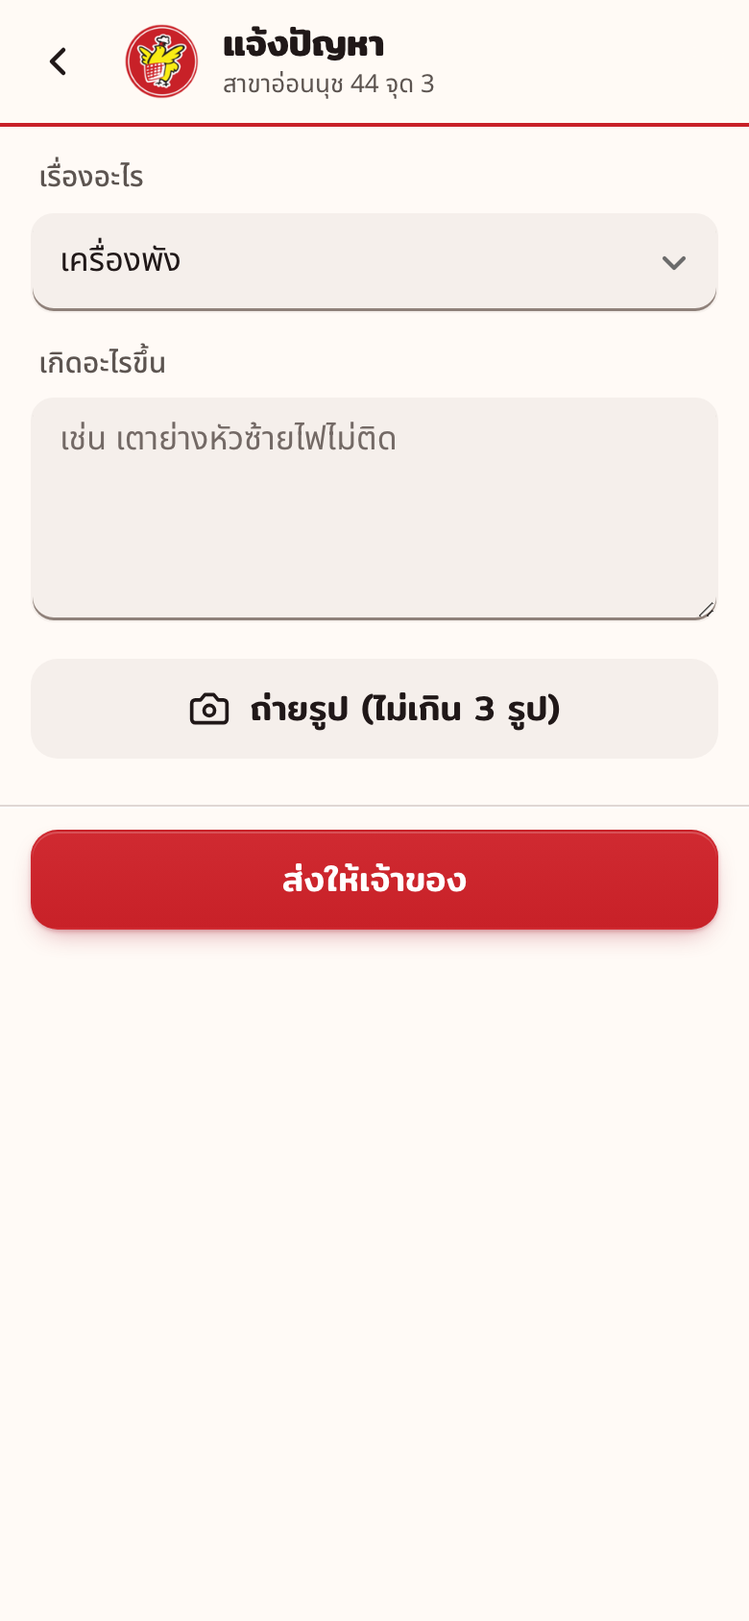
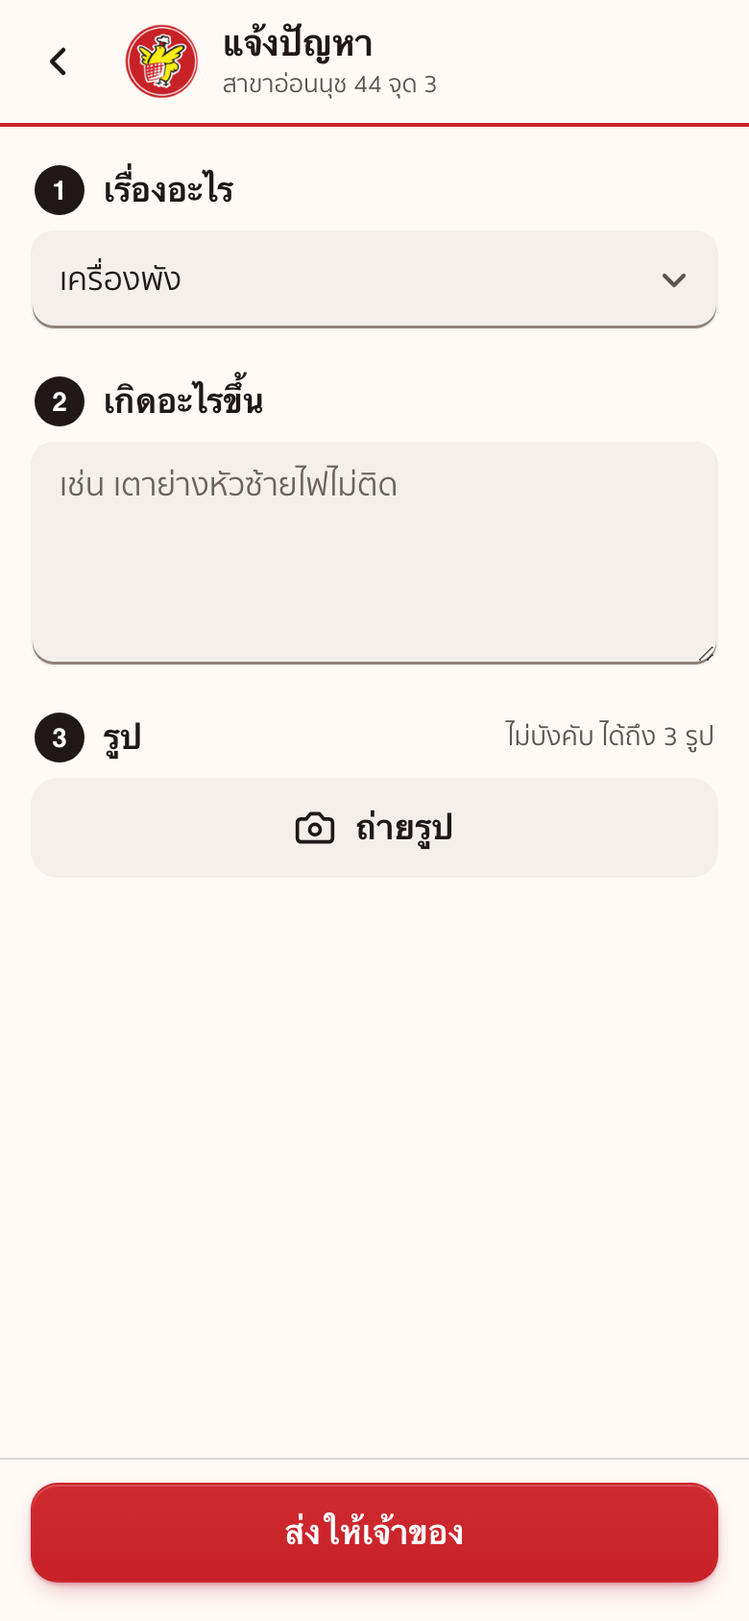
close check + waste question + manual (4d152b2)

diff --git a/manual.html b/manual.html
@@ -104,13 +104,13 @@
       <li><span class="w">ระหว่างวัน</span><span class="t">ชั่ง ถ่ายรูป แล้วทิ้ง</span><span class="b">ทิ้งของเสีย</span></li>
       <li class="hot"><span class="w">ก่อน 20:30 น.</span><span class="t">นับของเหลือ ของใช้ เงินสด ถ่ายรูป</span><span class="b">ปิดร้าน</span></li>
     </ul>
-    <p class="hint">ต้องรับของก่อน ถึงจะปิดร้านได้<br>วันที่ของไม่มา ก็ต้องกดรับของ แล้วเลือก "วันนี้ไม่มีของมา"</p>
+    <p class="hint">ต้องรับของก่อน ถึงจะปิดร้านได้<br>วันที่ของไม่มา ก็ต้องกดรับของ แล้วเลือก "วันนี้ไม่มีของมา"<br>ร้านหยุดทุกวันจันทร์ หน้าแรกขึ้น "วันนี้ร้านหยุด"<br>วันจันทร์ไม่ต้องเปิดร้านหรือปิดร้าน และแอปไม่เตือน</p>
     <div class="duo">
       <div class="warn"><b>20:30 น.</b>ยังไม่ปิดร้าน แอปเตือนเข้ากลุ่มพนักงาน</div>
       <div class="bad"><b>21:00 น.</b>ยังไม่ปิดร้าน ไม่มีใบสั่ง CPF ของอาจขาด</div>
     </div>
     <div class="good"><b>ไม่ต้องสั่งของเอง</b>แอปคิดใบสั่งจากของเหลือที่เรานับ<br>นับให้ตรง ของมาพอดี</div>
-    <figure class="shot"><img src="img/manual/index.png" alt="หน้าแรกของแอป" loading="lazy"><i style="left:50%;top:26%">1</i><i style="left:5%;top:36%">2</i><i style="left:5%;top:45%">3</i></figure>
+    <figure class="shot"><img src="img/manual/index.png" alt="หน้าแรกของแอป" loading="lazy"><i style="left:62%;top:27%">1</i><i style="left:30%;top:35.7%">2</i><i style="left:5%;top:57.2%">3</i></figure>
     <ol class="steps">
       <li>กล่องใหญ่บอกงานถัดไป แตะแล้วไปหน้านั้นเลย</li>
       <li>กล่องเล็กบอกว่าวันนี้ทำอะไรไปแล้ว</li>
@@ -119,10 +119,10 @@
     <h3>ปุ่ม "ห่อข้าวเหนียวเสร็จ"</h3>
     <ol class="steps">
       <li>ห่อเสร็จแต่ละรอบ กดปุ่ม "ห่อข้าวเหนียวเสร็จ" ที่หน้าแรก</li>
-      <li>ใส่จำนวนห่อของรอบนั้น แล้วกด "บันทึก"</li>
+      <li>ใส่จำนวนห่อของรอบนั้น แล้วกด "บันทึกจำนวนห่อ"</li>
       <li>ปุ่มบอกยอดรวม "วันนี้ห่อแล้ว" ทั้งวันให้</li>
     </ol>
-    <p class="hint">ปุ่มนี้ขึ้นตอนร้านเปิดอยู่</p>
+    <p class="hint">ปุ่มนี้ขึ้นตอนร้านเปิดอยู่<br>ใส่ผิด กด "ยกเลิกรายการล่าสุด" ภายใน 10 นาที<br>ยกเลิกได้เฉพาะรายการของเราเอง ที่บันทึกล่าสุด<br>เลย 10 นาทีแล้ว แจ้งปัญหา เลือก "กรอกผิด ขอแก้"</p>
   </div>
 </details>
 
@@ -134,27 +134,28 @@
       <li>กดปุ่มแดง "ถ่ายรูปหน้าร้าน" ต้องถ่ายตอนนั้น เลือกจากอัลบั้มไม่ได้ ไม่มีรูปเปิดร้านไม่ได้</li>
       <li>ได้รูปแล้ว ปุ่มแดงเปลี่ยนเป็น "เปิดร้าน" กดแล้วเห็นไก่มาสคอตกับติ๊กเขียว คือเสร็จ</li>
     </ol>
-    <p class="hint">เวลาที่กดเปิดร้าน คือเวลาเข้างานของเรา<br>รูปไม่ชัด กดลบแล้วถ่ายใหม่ได้<br>เมื่อวานลืมปิดร้าน หน้านี้จะให้ปิดร้านเมื่อวานก่อน แล้วค่อยเปิดร้านวันนี้</p>
+    <p class="hint">เวลาที่กดเปิดร้าน คือเวลาเข้างานของเรา<br>รูปไม่ชัด กดลบแล้วถ่ายใหม่ได้<br>ถ้าหน้านี้ขึ้น "ยังไม่ได้ปิดร้านวันก่อน"<br>กด "ปิดร้านที่ค้างก่อน" ปิดให้เสร็จ แล้วค่อยเปิดร้านวันนี้</p>
   </div>
 </details>
 
 <details class="sec">
   <summary><span class="n">3</span><h2>รับของ</h2><span class="ux-go" aria-hidden="true">›</span></summary>
   <div class="mn-in">
-    <figure class="shot"><img src="img/manual/receive.png" alt="หน้ารับของ" loading="lazy"><i style="left:8%;top:16.4%">1</i><i style="left:8%;top:26%">2</i><i style="left:8%;top:36.3%">3</i></figure>
+    <figure class="shot"><img src="img/manual/receive.png" alt="หน้ารับของ" loading="lazy"><i style="left:13%;top:22.7%">1</i><i style="left:13%;top:35%">2</i></figure>
     <div class="pick">
       <div><b>1 ของมาครบ</b>กด "ของมาครบตามใบสั่ง"<br>กด "ถ่ายใบส่งของ"<br>กด "บันทึก ของมาครบ"</div>
-      <div><b>2 ของมาไม่ครบ</b>กด "มีของขาด / ไม่ตรง"<br>แก้จำนวนแถวที่มาน้อย แถวนั้นขึ้น "ขาด N"<br>ถ่ายใบส่งของ แล้วกดบันทึก</div>
+      <div><b>2 ของมาไม่ครบ</b>กด "มีของขาด / ไม่ตรง"<br>แก้จำนวนแถวที่ไม่ตรง แถวนั้นขึ้น "ขาด N" หรือ "เกิน N"<br>ถ่ายใบส่งของ แล้วกดบันทึก</div>
       <div><b>3 วันนี้ไม่มีของมา</b>ถามเซลล์ในกลุ่มสั่งของก่อน<br>กด "วันนี้ไม่มีของมา"<br>ติ๊ก "ถามเซลล์ในกลุ่มสั่งของแล้ว" แล้วกดบันทึก</div>
+      <div><b>4 มีของที่ไม่อยู่ในใบสั่ง</b>กด "+ มีของอื่นมาด้วย"<br>เลือกสินค้า ใส่จำนวนที่ได้มา กด "เพิ่มของที่มา"<br>แถวนั้นขึ้น "นอกใบสั่ง" แล้วถ่ายใบส่งของ กดบันทึก</div>
     </div>
-    <p class="hint">วันที่มีของมา ต้องถ่ายใบส่งของทุกครั้ง ไม่ถ่ายบันทึกไม่ได้</p>
+    <p class="hint">ปุ่ม "วันนี้ไม่มีของมา" กับ "+ มีของอื่นมาด้วย" อยู่ล่างสุดของหน้า เลื่อนลงไปหา<br>วันที่มีของมา ต้องถ่ายใบส่งของทุกครั้ง ไม่ถ่ายบันทึกไม่ได้<br>ถ่ายได้ถึง 3 รูป<br>รับของแล้ว แก้ตัวเลขได้จนกว่าจะปิดร้าน</p>
   </div>
 </details>
 
 <details class="sec">
   <summary><span class="n">4</span><h2>ปิดร้าน 4 ขั้น</h2><span class="ux-go" aria-hidden="true">›</span></summary>
   <div class="mn-in">
-    <figure class="shot"><img src="img/manual/close.png" alt="หน้าปิดร้าน ขั้นนับของเหลือ" loading="lazy"><i style="left:50%;top:13%">1</i><i style="left:56%;top:30%">2</i><i style="left:9%;top:93.6%">3</i></figure>
+    <figure class="shot"><img src="img/manual/close.png" alt="หน้าปิดร้าน ขั้นนับของเหลือ" loading="lazy"><i style="left:15.5%;top:16.4%">1</i><i style="left:51.5%;top:31.6%">2</i><i style="left:9%;top:93.6%">3</i></figure>
     <ol class="steps">
       <li>แถบบนบอกว่าอยู่ขั้นไหน จาก 4 ขั้น</li>
       <li>ใส่จำนวนที่เหลือจริง แยกสดกับสุก ช่อง "เสีย" แตะไม่ได้ แอปใส่ยอดจากหน้าทิ้งของเสียให้</li>
@@ -162,26 +163,41 @@
     </ol>
     <h3>4 ขั้น</h3>
     <ol class="steps">
-      <li><span><b>นับของเหลือ</b> ทุกอย่างในตู้</span></li>
-      <li><span><b>ของใช้ในร้าน</b> ครบดีกด "ครบทุกอย่าง"<br>ใกล้หมดแตะ 1 ครั้ง หมดแตะ 2 ครั้ง</span></li>
-      <li><span><b>นับเงินสด</b> ในลิ้นชัก แล้วใส่ตัวเลข</span></li>
-      <li><span><b>ถ่ายรูปและส่ง</b> รูปตู้ และรูปหน้าจอ POS ต้องมีทั้ง 2 รูป แล้วกดปิดร้าน</span></li>
+      <li><span><b>นับของเหลือ</b> ทุกอย่างในตู้<br>วันที่ยังไม่ได้ลงของเสีย แอปถามก่อนนับ</span></li>
+      <li><span><b>ของใช้ในร้าน</b> ไม่ต้องนับจำนวน แค่แตะบอก<br>ยังพอทุกอย่าง กด "ของใช้ครบทุกอย่าง"<br>มีของใกล้หมด กด "มีของใกล้หมด / หมด" แล้วแตะชื่อของ<br>แตะ 1 ครั้ง = ใกล้หมด<br>แตะ 2 ครั้ง = หมด<br>แตะ 3 ครั้ง = กลับเป็นมี</span></li>
+      <li><span><b>นับเงินสด</b> ใส่ "ควรมี" ตามจอ POS<br>แล้วใส่ "นับได้" ตามเงินในลิ้นชัก</span></li>
+      <li><span><b>ถ่ายรูปและส่ง</b> "รูปตู้และถาด" กับ "รูปจอ POS"<br>ต้องมีทั้ง 2 รูป รูปบอกเวลาที่ปิดร้าน<br>แล้วกด "ปิดร้าน"</span></li>
     </ol>
     <h3>ของที่นับเป็นถุง</h3>
     <ol class="steps">
-      <li>แถวที่ช่อง "สด" ขึ้นคำว่า "แตะ" ให้แตะช่องนั้น</li>
-      <li>ใส่ "ถุงเต็ม" กี่ถุง และ "นอกถุง (เศษ)" กี่ชิ้น</li>
+      <li>แถวที่ช่อง "เหลือสด" ขึ้นคำว่า "แตะ" ให้แตะช่องนั้น</li>
+      <li>ใส่ "ถุงเต็ม" กี่ถุง และ "นอกถุง (เศษ)" กี่ชิ้น<br>เป๊ปซี่และน้ำดื่มนับเป็นแพ็ค ช่องจะขึ้น "แพ็คเต็ม" กับ "นอกแพ็ค (เศษ)"</li>
       <li>แอปบวกให้เอง ดูยอดรวมแล้วกด "ตกลง"</li>
     </ol>
-    <div class="bad-note"><b>ของเสีย บันทึกก่อนปิดร้าน</b>ทิ้งเมื่อไหร่ บันทึกที่หน้า "ทิ้งของเสีย" ตอนนั้นเลย พร้อมรูปตาชั่ง<br>ช่อง "เสีย" ตอนปิดร้านแตะไม่ได้ แอปใส่ยอดที่บันทึกไว้ให้เอง<br>เก็บร้านแล้วมีของต้องทิ้ง บันทึกให้เสร็จก่อนกดปิดร้าน</div>
-    <p class="hint">ปิดแอปกลางทางได้ ตัวเลขยังอยู่<br>กดปิดร้านแล้ว แก้ตัวเลขเองไม่ได้<br>มีอะไรอยากบอกเจ้าของ เขียนช่อง "ฝากบอกเจ้าของ"</p>
+    <h3>ถาม "วันนี้มีของเสียไหม"</h3>
+    <ol class="steps">
+      <li>เปิดหน้าปิดร้านวันที่ยังไม่มีของเสีย แอปถามก่อนนับ</li>
+      <li>ไม่มีของเสีย กด "ไม่มี"</li>
+      <li>มีของเสีย กด "มี ไปลงของเสีย" ลงให้เสร็จ แล้วกลับมานับ</li>
+    </ol>
+    <p class="hint">ตอบแล้ว แอปไม่ถามซ้ำวันนั้น<br>ปิดร้านย้อนหลัง ของเสียวันนั้นลงในแอปไม่ได้แล้ว<br>ถ้ามี เขียนในช่อง "ฝากบอกเจ้าของ"</p>
+    <h3>นับน้อยกว่าปกติ</h3>
+    <figure class="shot"><img src="img/manual/close-low.png" alt="แผ่นเตือนตรวจอีกรอบ นับน้อยกว่าปกติ" loading="lazy"><i style="left:91%;top:69%">1</i><i style="left:9%;top:88.1%">2</i><i style="left:9%;top:95.2%">3</i></figure>
+    <ol class="steps">
+      <li>กดปุ่มแดงไปขั้นถัดไป ถ้านับน้อยกว่าที่ควรเหลือมาก แผ่นแดง "ตรวจอีกรอบ นับน้อยกว่าปกติ" ขึ้น พร้อมรายการของ</li>
+      <li>นับผิด กด "กลับไปนับใหม่" แถวนั้นขึ้นสีแดง</li>
+      <li>นับถูกแล้ว กด "นับถูกแล้ว บันทึก"</li>
+    </ol>
+    <p class="hint">นับขาด ใบสั่งจะสั่งเกิน ของจะกองในตู้<br>ของที่กด "นับถูกแล้ว บันทึก" ไปขึ้นในการ์ดปิดร้านที่เจ้าของเห็น<br>ตัวเลขชุดเดิมไม่ถามซ้ำ</p>
+    <div class="bad-note"><b>ของเสีย บันทึกก่อนปิดร้าน</b>ทิ้งเมื่อไหร่ บันทึกที่หน้า "ทิ้งของเสีย" ตอนนั้นเลย พร้อมรูปตาชั่ง<br>ช่อง "เสีย" ตอนปิดร้านแตะไม่ได้ แอปใส่ยอดที่บันทึกไว้ให้เอง<br>แตะช่องนั้น มีปุ่ม "ไปบันทึกของเสีย" ตัวเลขที่นับไว้ไม่หาย<br>เก็บร้านแล้วมีของต้องทิ้ง บันทึกให้เสร็จก่อนกดปิดร้าน</div>
+    <p class="hint">ช่องที่ขึ้น 0 แตะแล้วพิมพ์ทับได้เลย ไม่ต้องลบ 0<br>ปิดแอปกลางทางได้ ตัวเลขยังอยู่ แต่รูปต้องถ่ายใหม่<br>กดปิดร้านแล้ว แก้ตัวเลขเองไม่ได้<br>ปิดร้านหลังเที่ยงคืน ยังนับเป็นวันเดิม จนถึงตี 5<br>มีอะไรอยากบอกเจ้าของ เขียนช่อง "ฝากบอกเจ้าของ"</p>
   </div>
 </details>
 
 <details class="sec">
   <summary><span class="n">5</span><h2>แจ้งปัญหา</h2><span class="ux-go" aria-hidden="true">›</span></summary>
   <div class="mn-in">
-    <figure class="shot"><img src="img/manual/issue.png" alt="หน้าแจ้งปัญหา" loading="lazy"><i style="left:3.5%;top:16%">1</i><i style="left:3.5%;top:31%">2</i><i style="left:9%;top:43.7%">3</i><i style="left:9%;top:54%">4</i></figure>
+    <figure class="shot"><img src="img/manual/issue.png" alt="หน้าแจ้งปัญหา" loading="lazy"><i style="left:7.9%;top:11.7%">1</i><i style="left:7.9%;top:24.8%">2</i><i style="left:7.9%;top:45.5%">3</i><i style="left:9%;top:89%">4</i></figure>
     <ol class="steps">
       <li>เลือกเรื่อง: เครื่องพัง, ลูกค้าร้องเรียน, ของ CPF มาผิด, กรอกผิด ขอแก้, เรื่องอื่น</li>
       <li>เขียนสั้น ๆ ว่าเกิดอะไร</li>
@@ -195,29 +211,30 @@
 <details class="sec">
   <summary><span class="n">6</span><h2>ทิ้งของเสีย</h2><span class="ux-go" aria-hidden="true">›</span></summary>
   <div class="mn-in">
-    <figure class="shot"><img src="img/manual/waste.png" alt="หน้าทิ้งของเสีย" loading="lazy"><i style="left:3.5%;top:24.2%">1</i><i style="left:9%;top:43%">2</i><i style="left:3.5%;top:54.5%">3</i><i style="left:9%;top:62.4%">4</i><i style="left:9%;top:72.9%">5</i></figure>
+    <figure class="shot"><img src="img/manual/waste.png" alt="หน้าทิ้งของเสีย" loading="lazy"><i style="left:7.9%;top:24.4%">1</i><i style="left:7.9%;top:37.4%">2</i><i style="left:7.9%;top:50.5%">3</i><i style="left:7.9%;top:70.6%">4</i><i style="left:9%;top:89%">5</i></figure>
     <ol class="steps">
-      <li>เลือกสินค้า ใส่จำนวน</li>
-      <li>วางบนตาชั่ง กด "ถ่ายรูปบนตาชั่ง" ให้เห็นน้ำหนัก</li>
-      <li>ใส่น้ำหนักเป็นกรัม เช่น ครึ่งกิโล ใส่ 500</li>
+      <li>เลือกสินค้า</li>
+      <li>ใส่จำนวน</li>
+      <li>วางบนตาชั่ง กด "ถ่ายรูปบนตาชั่ง" ให้เห็นน้ำหนัก<br>แล้วใส่น้ำหนักเป็นกรัม เช่น ครึ่งกิโล ใส่ 500</li>
       <li>ทิ้งลงถัง กด "ถ่ายรูปตอนทิ้งลงถัง"</li>
       <li>กด "บันทึกของเสีย"</li>
+      <li>แผ่น "ตรวจก่อนบันทึก" ขึ้น ถูกแล้วกด "บันทึกของเสีย" ผิดกด "กลับไปแก้"</li>
     </ol>
-    <p class="hint">ทิ้งเมื่อไหร่ บันทึกตอนนั้นเลย<br>ตอนปิดร้าน ช่อง "เสีย" แตะไม่ได้ แอปใส่ยอดจากหน้านี้ให้เอง<br>ปิดร้านแล้ว บันทึกของเสียของวันนั้นไม่ได้<br>เก็บร้านแล้วมีของต้องทิ้ง ให้บันทึกก่อนกดปิดร้าน</p>
+    <p class="hint">ทิ้งเมื่อไหร่ บันทึกตอนนั้นเลย<br>ต้องมีรูปตาชั่ง น้ำหนักอย่างน้อย 10 กรัม และรูปตอนทิ้งลงถัง<br>ทิ้งได้ไม่เกินจำนวนที่มีในร้านวันนี้<br>บันทึกแล้วแก้เองไม่ได้ ผิดให้บอกเจ้าของ<br>ดูของที่ทิ้งไปแล้ว ที่แท็บ "ทิ้งแล้ววันนี้"<br>ตอนปิดร้าน ช่อง "เสีย" แตะไม่ได้ แอปใส่ยอดจากหน้านี้ให้เอง<br>ปิดร้านแล้ว บันทึกของเสียของวันนั้นไม่ได้<br>เก็บร้านแล้วมีของต้องทิ้ง ให้บันทึกก่อนกดปิดร้าน</p>
   </div>
 </details>
 
 <details class="sec">
   <summary><span class="n">7</span><h2>ขอหยุด/ลา</h2><span class="ux-go" aria-hidden="true">›</span></summary>
   <div class="mn-in">
-    <figure class="shot"><img src="img/manual/holiday.png" alt="หน้าขอหยุดหรือลา" loading="lazy"><i style="left:3.5%;top:27.8%">1</i><i style="left:3.5%;top:39%">2</i><i style="left:9%;top:70.4%">3</i></figure>
+    <figure class="shot"><img src="img/manual/holiday.png" alt="หน้าขอหยุดหรือลา" loading="lazy"><i style="left:92%;top:28%">1</i><i style="left:92%;top:39.6%">2</i><i style="left:9%;top:73.3%">3</i></figure>
     <ol class="steps">
       <li>เลือกว่าขออะไร</li>
       <li>เลือกวัน</li>
       <li>กด "ส่งคำขอหยุด/ลา"</li>
     </ol>
     <div class="pick">
-      <div><b>หยุดประจำสัปดาห์</b>1 วันต่อสัปดาห์ ผ่านทันที ไม่ต้องรอ</div>
+      <div><b>หยุดประจำสัปดาห์</b>1 วันต่อสัปดาห์ ผ่านทันที ไม่ต้องรอ<br>วันที่มีของ CPF เข้า ต้องรอเจ้าของอนุมัติ</div>
       <div><b>ลาป่วย ลากิจ หยุดพิเศษ</b>รอเจ้าของกดอนุมัติในกลุ่มพนักงาน<br>ลาป่วยเลือกวันนี้ได้ อย่างอื่นขอล่วงหน้า 1 วัน</div>
     </div>
     <p class="hint">กดยกเลิกคำขอเองได้<br>กดผิด มีปุ่ม "เลิกทำ" ให้กดภายใน 5 วินาที</p>
@@ -250,13 +267,15 @@
       <div><b>เน็ตล่ม เปิดแอปไม่ได้</b><span>เขียนลงใบกระดาษสำรองก่อน เน็ตกลับมาค่อยกรอกในแอป แล้วบอกในกลุ่มพนักงาน</span></div>
       <div><b>กล้องไม่ขึ้น</b><span>ปิดแอป LINE แล้วเปิดใหม่ ถ้ายังไม่ได้ ให้ LINE ใช้กล้องในตั้งค่ามือถือ</span></div>
       <div><b>ส่งรูปไม่ขึ้น</b><span>ลองถ่ายใหม่ ถ้ายังไม่ได้ ย้ายไปที่สัญญาณดีกว่า</span></div>
-      <div><b>เปิดร้านแล้วแอปให้ปิดร้านเมื่อวานก่อน</b><span>เมื่อวานลืมปิดร้าน ทำตามหน้าจอ ปิดร้านเมื่อวานให้เสร็จ แล้วค่อยเปิดร้านวันนี้</span></div>
+      <div><b>ขึ้นว่า "ยังไม่ได้ปิดร้านวันก่อน"</b><span>วันก่อนลืมปิดร้าน อาจเป็น 2 วันก่อนก็ได้ กด "ปิดร้านที่ค้างก่อน"<br>ปิดร้านวันนั้นให้เสร็จ แล้วค่อยเปิดร้านวันนี้<br>ถ้าขึ้นว่าของวันนั้นยังไม่ได้กดรับ บอกเจ้าของก่อน</span></div>
       <div><b>ลืมปิดร้าน เลย 20:30 น.</b><span>ปิดร้านทันที ก่อน 21:00 น. ยังทันใบสั่ง CPF</span></div>
-      <div><b>เลย 21:00 น. แล้ว</b><span>ยังต้องปิดร้าน แล้วบอกในกลุ่มพนักงาน เจ้าของจะจัดการใบสั่งเอง</span></div>
+      <div><b>เลย 21:00 น. แล้ว</b><span>ยังต้องปิดร้าน แล้วบอกในกลุ่มพนักงาน เจ้าของจะจัดการใบสั่งเอง<br>ปิดหลังเที่ยงคืนก็ได้ ยังนับเป็นวันเดิม จนถึงตี 5</span></div>
       <div><b>กรอกผิดหลังปิดร้าน</b><span>แจ้งปัญหา เลือก "กรอกผิด ขอแก้" บอกว่าผิดตัวไหน ที่ถูกเท่าไหร่</span></div>
       <div><b>ขึ้นว่า "ยังไม่มีสิทธิ์ใช้แอป"</b><span>เช็กว่ายังอยู่ในกลุ่มพนักงานไหม ถ้าหลุด บอกเจ้าของดึงกลับ แล้วกด "ฉันเป็นพนักงาน"</span></div>
       <div><b>ของไม่มาตามเวลา</b><span>ถามเซลล์ในกลุ่มสั่งของ ไม่มาจริง กดรับของ "วันนี้ไม่มีของมา"</span></div>
-      <div><b>ของ CPF มาผิดตัว</b><span>รับของตามที่มาจริง แล้วแจ้งปัญหา เลือก "ของ CPF มาผิด" ถ่ายรูป</span></div>
+      <div><b>ของ CPF มาผิดตัว</b><span>รับของตามที่มาจริง ของที่ไม่อยู่ในใบสั่ง กด "+ มีของอื่นมาด้วย"<br>แล้วแจ้งปัญหา เลือก "ของ CPF มาผิด" ถ่ายรูป</span></div>
+      <div><b>ขึ้นว่า "นับใหม่อีกครั้ง"</b><span>เลขที่ใส่ รวมสด สุก เสีย มากกว่าของที่มีวันนี้ (ยกมา กับ รับเข้า)<br>ใส่เลขติดลบก็ไม่ได้<br>นับใหม่อีกครั้ง ถ้าของมีจริง บอกเจ้าของให้แก้ยอดรับเข้า<br>ข้าวเหนียวห่อ ห่อเพิ่ม กด "ห่อข้าวเหนียวเสร็จ" ก่อน</span></div>
+      <div><b>ขึ้นว่า "เปิดไม่ขึ้น"</b><span>กด "ลองอีกครั้ง" ถ้าไม่มีปุ่ม ให้ปิดหน้าแล้วเข้าใหม่<br>ยังไม่ได้ ย้ายไปที่สัญญาณดีกว่า ถ้ายังไม่ได้ บอกในกลุ่มพนักงาน</span></div>
       <div><b>เมนูด้านล่างแชตไม่ขึ้น</b><span>ปิดแอป LINE แล้วเปิดใหม่ 1 ครั้ง</span></div>
     </div>
   </div>

diff --git a/close.html b/close.html
@@ -35,6 +35,13 @@
   <dialog id="wasteGo" class="bsheet" aria-labelledby="wasteGoT"><div class="body"><div class="grab"></div><div class="hd"><b id="wasteGoT">ช่องนี้กรอกเองไม่ได้</b><button type="button" class="x" aria-label="ปิด">✕</button></div>
   <p class="bag-hint">ของเสียต้องชั่งและถ่ายรูปก่อนบันทึก<br>บันทึกแล้วยอดจะแสดงที่ช่องนี้<br>ยอดที่นับไว้ไม่หาย</p>
   <a class="btn primary" href="waste.html">ไปบันทึกของเสีย</a></div></dialog>
+  <dialog id="wasteQ" class="bsheet" aria-labelledby="wasteQT"><div class="body"><div class="grab"></div><div class="hd"><b id="wasteQT">วันนี้มีของเสียไหม</b></div>
+  <p class="bag-hint">ลงของเสียก่อน แล้วค่อยนับของเหลือ</p></div>
+  <div class="foot ux-2b"><button type="button" id="wqNo" class="btn">ไม่มี</button><a id="wqYes" class="btn primary" href="waste.html">มี ไปลงของเสีย</a></div></dialog>
+  <dialog id="lowS" class="bsheet bad" aria-labelledby="lowT"><div class="body"><div class="grab"></div><div class="hd"><b id="lowT">ตรวจอีกรอบ นับน้อยกว่าปกติ</b><button type="button" class="x" aria-label="ปิด">✕</button></div>
+  <ul id="lowL" class="low-l"></ul>
+  <p class="bag-hint">ถ้านับขาด ใบสั่งจะสั่งเกิน ของจะกองในตู้</p></div>
+  <div class="foot"><button type="button" id="lowBack" class="btn primary">กลับไปนับใหม่</button><button type="button" id="lowKeep" class="btn" style="margin-top:8px">นับถูกแล้ว บันทึก</button></div></dialog>
   <section id="s2" class="ux-step" hidden>
   <div class="ux-pick" role="radiogroup" aria-label="ของใช้ในร้าน">
     <button type="button" id="consAll" class="ux-opt" role="radio" aria-checked="false"><b>ของใช้ครบทุกอย่าง</b><small>ถุง ฟอยล์ น้ำจิ้ม ยังพอ</small></button>
@@ -58,13 +65,6 @@
     <div class="cl-shot"><label class="btn cl-frame" data-again="แตะถ่ายเพิ่ม"><svg class="cl-ico" viewBox="0 0 24 24" fill="none" stroke="currentColor" stroke-width="1.6" stroke-linecap="round" stroke-linejoin="round" aria-hidden="true"><path d="M5 6a4 4 0 0 1 4-4h6a4 4 0 0 1 4 4v14a2 2 0 0 1-2 2H7a2 2 0 0 1-2-2V6Z"/><path d="M5 10h14"/><path d="M15 7v6"/></svg><b>รูปตู้และถาด</b><small><svg viewBox="0 0 24 24" fill="none" stroke="currentColor" stroke-width="2" stroke-linecap="round" stroke-linejoin="round" aria-hidden="true"><path d="M14.5 4h-5L7 7H4a2 2 0 0 0-2 2v9a2 2 0 0 0 2 2h16a2 2 0 0 0 2-2V9a2 2 0 0 0-2-2h-3l-2.5-3z"/><circle cx="12" cy="13" r="3"/></svg>แตะเพื่อถ่าย</small><input id="phFridge" type="file" accept="image/*" capture="environment" hidden></label><p id="phStatus" class="muted"></p></div>
     <div class="cl-shot"><label class="btn cl-frame" data-again="แตะถ่ายใหม่"><svg class="cl-ico" viewBox="0 0 24 24" fill="none" stroke="currentColor" stroke-width="1.6" stroke-linecap="round" stroke-linejoin="round" aria-hidden="true"><rect width="20" height="14" x="2" y="3" rx="2"/><path d="M8 21h8"/><path d="M12 17v4"/></svg><b>รูปจอ POS</b><small><svg viewBox="0 0 24 24" fill="none" stroke="currentColor" stroke-width="2" stroke-linecap="round" stroke-linejoin="round" aria-hidden="true"><path d="M14.5 4h-5L7 7H4a2 2 0 0 0-2 2v9a2 2 0 0 0 2 2h16a2 2 0 0 0 2-2V9a2 2 0 0 0-2-2h-3l-2.5-3z"/><circle cx="12" cy="13" r="3"/></svg>แตะเพื่อถ่าย</small><input id="phPos" type="file" accept="image/*" capture="environment" hidden></label></div>
   </div>
-  <section id="wasteBox" class="ux-waste" hidden aria-labelledby="wasteT">
-  <h2 id="wasteT">มีของเสีย <span id="wasteN"></span> ยังไม่ได้บันทึก</h2>
-  <p>ชั่งก่อน ถ่ายรูปตาชั่ง ใส่น้ำหนัก <span class="nw">แล้วถ่ายตอนทิ้ง</span></p>
-  <label class="btn"><svg viewBox="0 0 24 24" fill="none" stroke="currentColor" stroke-width="2" stroke-linecap="round" stroke-linejoin="round" aria-hidden="true"><path d="M14.5 4h-5L7 7H4a2 2 0 0 0-2 2v9a2 2 0 0 0 2 2h16a2 2 0 0 0 2-2V9a2 2 0 0 0-2-2h-3l-2.5-3z"/><circle cx="12" cy="13" r="3"/></svg>ถ่ายรูปบนตาชั่ง <input id="phScale" type="file" accept="image/*" capture="environment" hidden></label>
-  <label class="field" for="wasteKg">น้ำหนักของเสีย</label><div class="in"><input id="wasteKg" type="number" inputmode="numeric" pattern="[0-9]*" step="1" min="0" enterkeyhint="done" placeholder="0"><span class="sfx">กรัม</span></div>
-  <label class="btn"><svg viewBox="0 0 24 24" fill="none" stroke="currentColor" stroke-width="2" stroke-linecap="round" stroke-linejoin="round" aria-hidden="true"><path d="M14.5 4h-5L7 7H4a2 2 0 0 0-2 2v9a2 2 0 0 0 2 2h16a2 2 0 0 0 2-2V9a2 2 0 0 0-2-2h-3l-2.5-3z"/><circle cx="12" cy="13" r="3"/></svg>ถ่ายรูปตอนทิ้งลงถัง <input id="phBin" type="file" accept="image/*" capture="environment" hidden></label>
-  </section>
   <label class="field" for="note">ฝากบอกเจ้าของ <small>(ไม่มีก็ข้ามได้)</small></label>
   <textarea id="note" rows="3" placeholder="เช่น ไก่ต้นตำรับหมด ลูกค้าเอาทรงเครื่องแทน"></textarea>
   </section>
@@ -98,6 +98,9 @@
   // 0030: what was thrown away during the day (waste.html) starts the "เสีย" box and is its floor
   const { data: wl } = await supabase.from("waste_logs").select("product_id,qty").eq("date", today);
   const W = {}; (wl || []).forEach((w) => { W[w.product_id] = (W[w.product_id] || 0) + +w.qty; });
+  // 0052 (Mos 30 ต.ค.): what each product should have left tonight (under-count check) + "ไม่มีของเสีย" already answered · a failed read = no checks
+  const { data: cc } = await supabase.rpc("close_check", { d: today });
+  const EXP = Object.fromEntries((cc?.items || []).map((i) => [i.product_id, i]));
   // 0045: ตอนปิดร้าน นับจำนวน (count row) or ติ๊กใกล้หมด (ของใช้ step) comes from count_mode · default from kind for rows saved before it
   const tick = (p) => (p.count_mode || (p.kind === "consumable" ? "tick" : "count")) === "tick";
   const stock = prods.filter((p) => !tick(p)), cons = prods.filter(tick);
@@ -137,12 +140,7 @@
   const face = (inp) => { const lab = inp.closest("label"), im = lab.nextElementSibling?.querySelector(".thumb:last-child img"); lab.style.backgroundImage = im ? `url("${im.src}")` : ""; };
   Photo.picker(supabase, phFridge, { paths: photos, type: "fridge", name: "รูปตู้", need: true, status: phStatus, onChange: () => { face(phFridge); update(); } });
   Photo.picker(supabase, phPos, { paths: pos, type: "pos", name: "รูปจอ POS", need: true, max: 1, onChange: () => { face(phPos); update(); } });
-  // 0030 (Mos 23 ต.ค.): waste > 0 needs a scale photo + a bin photo + kg, server checks the same
-  const scale = [], bin = [];
-  Photo.picker(supabase, phScale, { paths: scale, type: "waste", name: "รูปตาชั่ง", need: true, max: 1, onChange: () => update() });
-  Photo.picker(supabase, phBin, { paths: bin, type: "waste", name: "รูปทิ้งลงถัง", need: true, max: 1, onChange: () => update() });
-  // only waste above what waste.html already logged (with its own photos) needs proof here
-  const wasteRows = () => [...document.querySelectorAll("#lines .grid")].filter((g) => +g.querySelector(".w").value > (W[g.dataset.id] || 0));
+  // 0052: the เสีย box is read-only (0046), it only ever holds the logged waste → the proof box for extra waste at close (#wasteBox) is gone
   const underRows = () => [...document.querySelectorAll("#lines .grid")].filter((g) => +g.querySelector(".w").value < (W[g.dataset.id] || 0));
 
   // ---- wizard: 4 steps, one on screen · the red button walks forward, a step with gaps stops it ----
@@ -158,6 +156,17 @@
       if (pick === "low" && !Object.values(state).some((v) => v !== "ok")) return { say: "แตะของที่ใกล้หมดหรือหมด อย่างน้อย 1 อย่าง", el: document.querySelector("#cons .ux-cchip") }; }
     return null;
   };
+  // 0052: counted (สด + สุก) below ควรเหลือ − max(ครึ่งถุง, ขายปกติ 1 วัน) → "ตรวจอีกรอบ" before leaving step 1 · same numbers kept once = not asked again
+  let kept = "", lowTo = 2, lows = [];
+  const lowList = () => [...document.querySelectorAll("#lines .grid")].map((g) => { const e = EXP[g.dataset.id], f = g.querySelector(".rf").value;
+    if (!e || f === "") return null; const n = +f + (+g.querySelector(".rc").value || 0); return n < +e.min ? { g, n, e } : null; }).filter(Boolean);
+  const lowSig = (l) => l.map((x) => x.g.dataset.id + ":" + x.n).join();
+  const showLow = (l, n) => { lows = l; lowTo = n;
+    lowL.innerHTML = l.map((x) => `<li><b>${UXS.esc(x.e.name)}</b><span>นับ ${x.n} ควรเหลือราว ${+x.e.expected} ${UXS.esc(x.e.unit || "")}</span></li>`).join("");
+    lowS.showModal(); lowS.querySelector(".body").scrollTop = 0; };
+  lowS.addEventListener("click", (e) => { if (e.target === lowS || e.target.closest(".x")) lowS.close(); });
+  lowBack.onclick = () => { lowS.close(); lows.forEach((x) => { x.g.hidden = false; x.g.classList.add("ux-miss"); }); const f = lows[0].g.querySelector(".rf"); f.scrollIntoView({ block: "center" }); f.focus({ preventScroll: true }); };
+  lowKeep.onclick = () => { kept = lowSig(lows); lowS.close(); go(lowTo); };
   const say = (t, bad) => { msg.textContent = t || ""; msg.className = bad ? "err" : "muted"; };
   // 0047 (Mos 30 ต.ค., server checks the same): no minus · เหลือสด + เหลือสุก + เสีย never above ยกมา + รับเข้า
   const over = () => { for (const g of document.querySelectorAll("#lines .grid")) {
@@ -170,13 +179,14 @@
   // ---- draft: every input saved to this phone, per day (LINE can close the page any time) ----
   // ponytail: photos aren't in the draft (they're already uploaded; thumbnails would need signed URLs) · re-shoot after reopening
   const KEY = "fs_close_draft_" + today;
+  let wq = 0; // 0052: the waste question was answered on this phone
   const store = { get: (k) => { try { return localStorage.getItem(k); } catch (_) { return null; } }, set: (k, v) => { try { localStorage.setItem(k, v); return true; } catch (_) { return false; } }, del: (k) => { try { localStorage.removeItem(k); } catch (_) {} } };
   try { Object.keys(localStorage).filter((k) => k.startsWith("fs_close_draft_") && k !== KEY).forEach((k) => localStorage.removeItem(k)); } catch (_) {}
   const showDraft = (t) => { draftT.textContent = t ? `ร่างเก็บไว้ ${UXS.hm(t)} น.` : ""; };
   const save = () => {
     const rows = {}; document.querySelectorAll("#lines .grid").forEach((g) => { rows[g.dataset.id] = [g.querySelector(".rf").value, g.querySelector(".rc").value]; }); // .w (เสีย) is never saved · it always comes from waste_logs (W)
     const at = Date.now();
-    if (store.set(KEY, JSON.stringify({ at, rows, cons: state, pick, ce: cashExp.value, cc: cashCnt.value, note: note.value, step: cur, reached }))) showDraft(at);
+    if (store.set(KEY, JSON.stringify({ at, rows, cons: state, pick, ce: cashExp.value, cc: cashCnt.value, note: note.value, step: cur, reached, wq, lo: kept }))) showDraft(at);
   };
   let draft = null; try { draft = JSON.parse(store.get(KEY) || "null"); } catch (_) { draft = null; }
   if (draft) {
@@ -186,11 +196,11 @@
     setPick(Object.values(state).some((v) => v !== "ok") ? "low" : (draft.pick === "all" || draft.pick === "low" ? draft.pick : ""));
     cashExp.value = draft.ce || ""; cashCnt.value = draft.cc || ""; note.value = draft.note || ""; diff(); showDraft(draft.at);
     reached = Math.min(Math.max(+draft.reached || 1, +draft.step || 1), 4);
+    wq = draft.wq || 0; kept = draft.lo || "";
   }
 
   function update() {
     setTimeout(() => Photo.markNext()); // step / waste box visibility changed
-    const nw = wasteRows().length; wasteBox.hidden = !nw; wasteN.textContent = nw ? `${nw} อย่าง` : "";
     const rs = liveRows(), n = rs.length, x = n - leftRows().length;
     const was = +progT.dataset.x || 0; progT.dataset.x = x;
     progT.textContent = n ? `นับแล้ว ${x} จาก ${n}` : "ไม่มีของต้องนับ";
@@ -216,7 +226,8 @@
       if (s !== cur) show(s);
       if (!quiet) { say(g.say, true); document.querySelectorAll("#lines .grid").forEach((r) => r.classList.toggle("ux-miss", s === 1 && !r.classList.contains("ux-zero") && r.querySelector(".rf").value === ""));
         if (g.row) { g.row.hidden = false; g.row.classList.add("ux-over"); g.el.scrollIntoView({ block: "center" }); } UXM.shake(g.el); }
-      return false; } }
+      return false; }
+      if (s === 1 && !quiet) { const l = lowList(); if (l.length && lowSig(l) !== kept) { showLow(l, n); return false; } } }
     show(n); return true;
   }
   function show(n) {
@@ -248,13 +259,9 @@
     if (shot) { say(shot[0], true); UXM.shake(shot[1].closest("label")); return; }
     const under = underRows()[0];
     if (under) { const p = stock.find((x) => x.id === under.dataset.id); go(1); say(`${p.name} ทิ้งไปแล้ว ${W[p.id]} ${p.unit || ""}\nช่องเสียใส่น้อยกว่านี้ไม่ได้`, true); UXM.shake(under.querySelector(".w")); under.querySelector(".w").focus(); return; } // qa2: say after go(), show() clears the message
-    if (wasteRows().length) {
-      const miss = !scale.length ? ["ยังไม่ได้ถ่ายรูปของเสียบนตาชั่ง", phScale] : !(Math.round(+wasteKg.value) >= 10) ? [+wasteKg.value > 0 ? "น้ำหนักของเสียน้อยสุด 10 กรัม" : "ยังไม่ได้ใส่น้ำหนักของเสีย", wasteKg] : !bin.length ? ["ยังไม่ได้ถ่ายรูปตอนทิ้งลงถัง", phBin] : null;
-      if (miss) { say(miss[0], true); (miss[1].closest("label") || miss[1]).scrollIntoView({ block: "center" }); if (miss[1] === wasteKg) wasteKg.focus(); return; }
-    }
     if (!confirm(`ปิดร้านเลยไหม?\nนับของแล้ว ${rows.length} จาก ${stock.length} อย่าง${cashDiff.textContent ? "\n" + cashDiff.textContent : ""}\nกดแล้วแก้ตัวเลขไม่ได้`)) return;
     send.disabled = true; back.hidden = true; msg.textContent = "กำลังปิดร้าน…";
-    const payload = { date: today, lines: rows, consumables: Object.entries(state).filter(([, v]) => v !== "ok").map(([product_id, status]) => ({ product_id, status })), cash_expected: cashExp.value === "" ? null : +cashExp.value, cash_counted: cashCnt.value === "" ? null : +cashCnt.value, note: note.value || null, pos_photo: pos[0] ?? null, photos, ...(wasteRows().length ? { waste_photos: [...scale, ...bin], waste_kg: Math.round(+wasteKg.value) / 1000 } /* Mos 26 ต.ค.: staff type grams, the server keeps kg */ : {}) };
+    const payload = { date: today, lines: rows, consumables: Object.entries(state).filter(([, v]) => v !== "ok").map(([product_id, status]) => ({ product_id, status })), cash_expected: cashExp.value === "" ? null : +cashExp.value, cash_counted: cashCnt.value === "" ? null : +cashCnt.value, note: note.value || null, pos_photo: pos[0] ?? null, photos };
     const { error } = await supabase.rpc("close_day", { p: payload });
     if (error) { msg.textContent = "ยังปิดร้านไม่ได้\n" + App.errText(error); msg.className = "err"; send.disabled = false; back.hidden = false; return; }
     store.del(KEY); showDraft(null);
@@ -270,5 +277,14 @@
   cur = 1; let to = draft ? Math.min(Math.max(+draft.step || 1, 1), 4) : 1;
   for (let s = 1; s < to; s++) if (gap(s)) { to = s; break; }
   document.querySelectorAll(".ux-step").forEach((el) => el.hidden = el.id !== "s" + to); cur = to; update();
+  // 0052 (Mos 30 ต.ค.): waste is logged before counting → ask first, on a day with no waste log and no answer yet
+  // "ไม่มี" is kept on the day (close card: ของเสีย ไม่มี (น้องยืนยัน)) · a late close can't log that day's waste any more (waste.html logs today) → write it in the note
+  if (cc && !cc.waste_none && !+cc.waste_logs && !wq && cur === 1) {
+    if (late) { wasteQT.textContent = `วันที่ ${dayTh} มีของเสียไหม`; wqYes.removeAttribute("href"); wqYes.setAttribute("role", "button"); wqYes.tabIndex = 0; wqYes.textContent = "มีของเสีย";
+      wasteQ.querySelector(".bag-hint").textContent = "ของเสียวันนั้นลงในแอปไม่ได้แล้ว\nถ้ามี เขียนในช่องฝากบอกเจ้าของ";
+      wqYes.onclick = () => { wasteQ.close(); wq = 1; save(); }; }
+    wqNo.onclick = async () => { wasteQ.close(); wq = 1; save(); await supabase.rpc("waste_none", { d: today }); }; // ponytail: a failed save = asked again on another phone, never blocks closing
+    wasteQ.showModal();
+  }
 })();
 </script></body></html>

diff --git a/lib/ux-data.css b/lib/ux-data.css
@@ -173,3 +173,15 @@ button.cell.ux-who:active { background: var(--color-fill-pressed); }
 #bagS .btn.primary, #wasteGo .btn.primary { width: 100%; margin-bottom: max(8px, env(safe-area-inset-bottom)); }
 .grid .rf[readonly] { cursor: pointer; }
 .bagsay { display: block; }
+/* 0052 close.html: red sheet (tone bad) "ตรวจอีกรอบ นับน้อยกว่าปกติ" · red title, the items in a red-tint box (name, then the numbers in red) */
+.bsheet.bad .hd b { color: var(--color-destructive); }
+.bsheet.bad .low-l { list-style: none; margin: 8px 0 12px; padding: 2px 14px; border-radius: var(--radius-sm); background: var(--tint-destructive); box-shadow: inset 0 0 0 1px var(--border-bad); }
+.low-l li { padding: 10px 0; }
+.low-l li + li { border-top: .5px solid var(--border-bad); }
+.low-l b { display: block; font-weight: 600; }
+.low-l span { display: block; font-size: 15px; color: var(--color-destructive); font-variant-numeric: tabular-nums; }
+#lowS .bag-hint, #wasteQ .bag-hint { margin: 2px 0 12px; font-size: 15px; color: var(--color-ink-soft); }
+/* the waste question at the start of closing: centred, no ✕ (one of the two answers) */
+#wasteQ .hd b, #wasteQ .bag-hint { text-align: center; }
+#wasteQ .bag-hint { white-space: pre-line; }
+@media (max-width: 359px) { #wasteQ .foot.ux-2b { grid-template-columns: minmax(0, 1fr); } #wasteQ .foot .primary { order: -1; } }   /* 320px: "มี ไปลงของเสีย" never splits, red on top */

diff --git a/lib/ux-staff.css b/lib/ux-staff.css
@@ -210,15 +210,6 @@ details.ux-day summary .m b { font-weight: 500; color: var(--color-ink-soft); }
 @starting-style { #phBox:not([hidden]) { opacity: 0; transform: translateY(6px); } }
 @media (prefers-reduced-motion: reduce) { @starting-style { #phBox:not([hidden]) { transform: none; } } }
 
-/* 0030 waste proof box (close step 4): a warning card, not another field label · title dark + bold, one muted how-to line, white controls inside */
-.ux-waste { margin: var(--space-lg) 0 var(--space-md); padding: 14px 16px 16px; border-radius: var(--radius-lg); background: var(--tint-wait); border: 1px solid var(--border-wait); }
-.ux-waste h2 { margin: 0; font: 600 17px/1.35 var(--font-head); color: var(--color-foreground); text-wrap: balance; }
-.ux-waste h2 span { color: var(--on-wait); font-variant-numeric: tabular-nums; }
-.ux-waste p { margin: 4px 0 12px; font-size: 14px; line-height: 1.5; color: var(--color-ink-soft); text-wrap: pretty; }
-.ux-waste .btn:not(.primary) { background: var(--color-card); }
-.ux-waste .nw { white-space: nowrap; } /* a phrase that must not split mid-way on 320px */
-.ux-waste .field { margin-top: 12px; }
-.ux-waste .in { background: var(--color-card); }
 
 /* open.html round 2 (Mos 26 ต.ค.): two steps, a big title, the photo frame is the focal point, who + the clock under it */
 .op-steps { grid-template-columns: repeat(2, minmax(0, 1fr)); margin-top: 0; }
